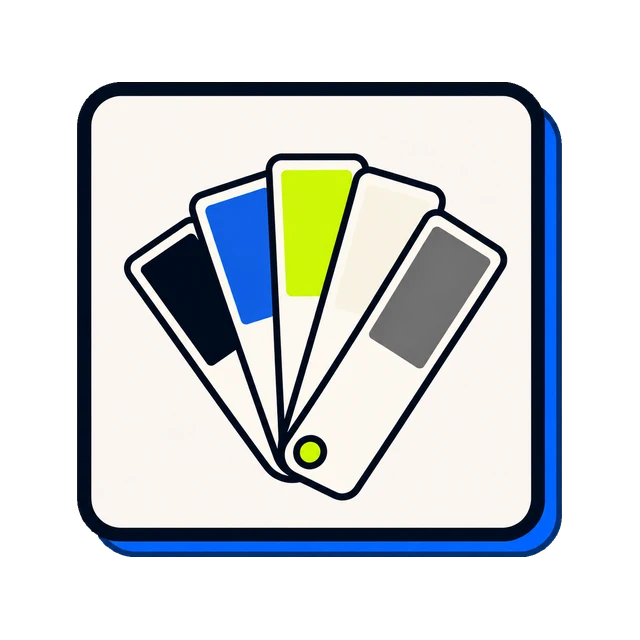
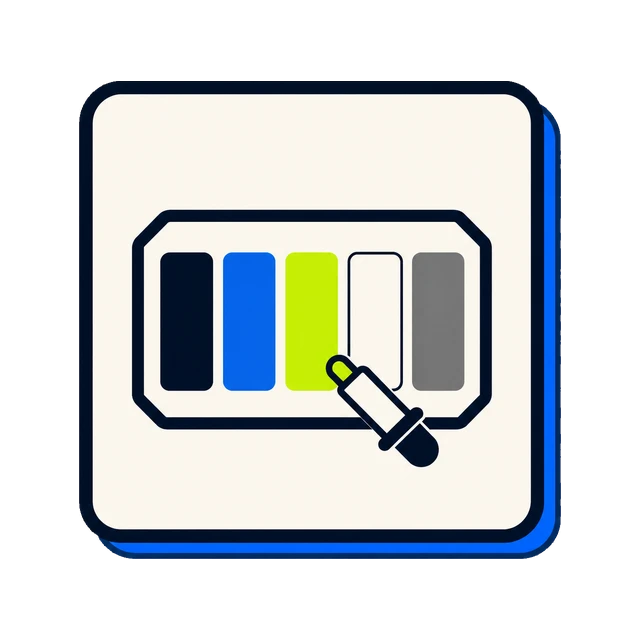
Deploy: sync site from workspace @ a06c17d

Changed region(s): [[0.1875, 0.2188, 0.8125, 0.7812], [0.1562, 0.125, 0.875, 0.875], [0.0938, 0.1562, 0.1562, 0.8125]]

diff --git a/es/branding.html b/es/branding.html
@@ -178,20 +178,20 @@
 
       <article class="scard">
 
-        <div class="art"><img src="../assets/sys-voice.webp" width="640" height="640" loading="lazy" decoding="async" alt="Un micrófono de estudio con una banda lima cruzando el cuerpo y una barra azul en la base."></div>
+        <div class="art"><img src="../assets/sys-voice.webp" width="640" height="640" loading="lazy" decoding="async" alt="Hago, el robot, con un micrófono sobre una placa marfil, al lado de un globo de diálogo azul que dice GOTTA BE COOL."></div>
         <h3>1. Voz de marca</h3>
         <p>Las palabras que suenan a ti. Tono, personalidad y mensajes clave &mdash; claros, parejos y que no se confunden con nadie.</p>
       </article>
 
       <article class="scard">
         <div class="art"><img src="../assets/sys-palette.webp" width="640" height="640" loading="lazy" decoding="async"
-             alt="Un abanico de cinco muestras de color — azul marino, azul, lima, marfil y gris — en un anillo articulado."></div>
+             alt="Cinco muestras de color — azul marino, azul, lima, blanco y gris — dentro de un panel delineado, con un gotero cruzado encima."></div>
         <h3>2. Paleta de colores</h3>
         <p>Los colores que ponen el &aacute;nimo. Una paleta hecha para que te reconozcan, con contraste y que se ve igual en cada superficie.</p>
       </article>
 
       <article class="scard">
-        <div class="art"><img src="../assets/sys-logo.webp" width="640" height="640" loading="lazy" decoding="async" alt="La composición de HagoDigital sobre una placa marfil: el monograma HD, un rayo lima, y el logotipo debajo."></div>
+        <div class="art"><img src="../assets/sys-logo.webp" width="640" height="640" loading="lazy" decoding="async" alt="Tres composiciones del logo de HagoDigital en una placa: la marca del robot con el logotipo, el monograma HD solo, y la marca del robot sola."></div>
         <h3>3. Versiones del logo</h3>
         <p>La marca que te hace reconocible. Logo principal, variaciones y composiciones para cada sitio donde tenga que ir.</p>
       </article>

diff --git a/branding.html b/branding.html
@@ -178,20 +178,20 @@
 
       <article class="scard">
 
-        <div class="art"><img src="assets/sys-voice.webp" width="640" height="640" loading="lazy" decoding="async" alt="A studio microphone with a lime band across its body and a blue bar at the base."></div>
+        <div class="art"><img src="assets/sys-voice.webp" width="640" height="640" loading="lazy" decoding="async" alt="Hago the robot holding a microphone on an ivory tile, beside a blue speech bubble reading GOTTA BE COOL."></div>
         <h3>1. Brand voice</h3>
         <p>The words that sound like you. Tone, personality and key messages &mdash; clear, consistent and unmistakably yours.</p>
       </article>
 
       <article class="scard">
         <div class="art"><img src="assets/sys-palette.webp" width="640" height="640" loading="lazy" decoding="async"
-             alt="A fan of five colour swatches — navy, blue, lime, ivory and grey — on a hinged ring."></div>
+             alt="Five colour swatches — navy, blue, lime, white and grey — inside an outlined panel, with an eyedropper resting across them."></div>
         <h3>2. Colour palette</h3>
         <p>The colours that set the mood. A palette built for recognition, contrast and consistency across every surface.</p>
       </article>
 
       <article class="scard">
-        <div class="art"><img src="assets/sys-logo.webp" width="640" height="640" loading="lazy" decoding="async" alt="The HagoDigital lockup on an ivory tile: the HD monogram, a lime lightning bolt, and the wordmark beneath."></div>
+        <div class="art"><img src="assets/sys-logo.webp" width="640" height="640" loading="lazy" decoding="async" alt="Three HagoDigital logo lockups on one tile: the robot mark with the wordmark, the HD monogram on its own, and the robot mark on its own."></div>
         <h3>3. Logo suite</h3>
         <p>The mark that makes you recognisable. Primary logo, variations and lockups for every place it has to sit.</p>
       </article>

diff --git a/es/index.html b/es/index.html
@@ -184,7 +184,8 @@
 <section class="pillar on-navy">
   <div class="shell row">
     <figure data-rise="left">
-
+      <img src="../assets/social-cycle.webp" width="1324" height="891"
+           alt="Hago, el robot, con un tel&eacute;fono que muestra un perfil y una publicaci&oacute;n de HagoDigital en Instagram, y flechas lima que giran por un calendario, una publicaci&oacute;n con imagen, una con video y un gr&aacute;fico de resultados que sube.">
     </figure>
     <div class="copy" data-rise>
       <span class="n">04</span>

diff --git a/index.html b/index.html
@@ -185,7 +185,8 @@
 <section class="pillar on-navy">
   <div class="shell row">
     <figure data-rise="left">
-
+      <img src="assets/social-cycle.webp" width="1324" height="891"
+           alt="Hago the robot holding a phone that shows a HagoDigital Instagram profile and post, with lime arrows running clockwise through a calendar, an image post, a video post and a rising results chart.">
     </figure>
     <div class="copy" data-rise>
       <span class="n">04</span>
